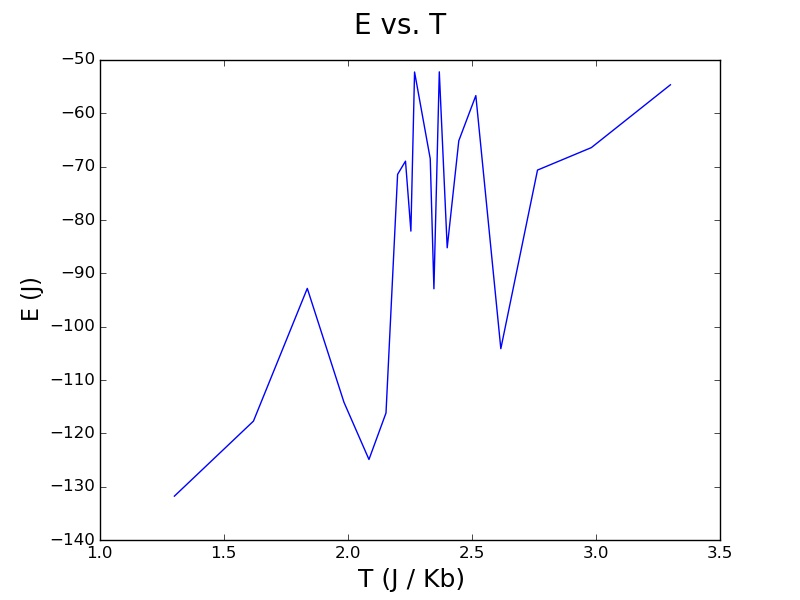
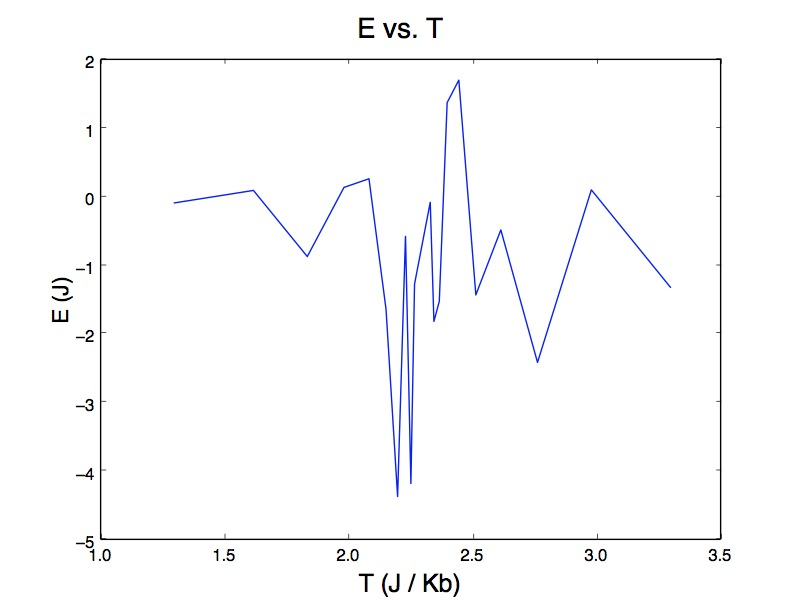
Added if statement for 1D case (pics)

diff --git a/1D/Simulation.py b/1D/Simulation.py
@@ -87,15 +87,15 @@ def get_energy_and_magnetization(ising_array):
 	if dim1: # 1D
 		energy_accumulator = 0
 		last_element = 0
-		
+
 		magnetization_accumulator = 0
-		
+
 		for current_element in ising_array:
 			energy_accumulator += -J * last_element * current_element - H * current_element
 			last_element = current_element
-			
+
 			magnetization_accumulator += current_element
-			
+
 		tot_magnetization = magnetization_accumulator / float(len(ising_array))
 		return energy_accumulator, tot_magnetization
 
@@ -105,10 +105,10 @@ def get_energy_and_magnetization(ising_array):
 		for i in range(0, N):
 			for j in range(0, M):
 				magnetization_accumulator += ising_array[i, j]
-				
+
 				current_element = ising_array[i, j]
 				energy_accumulator += -H * current_element
-				
+
 				neighbors = get_neighbors(i, j)
 				for index in neighbors:
 					index_x, index_y = index
@@ -129,7 +129,7 @@ def get_neighbors(i, j):
 			neighbor_set.add((i-1, j+1))
 	if i < N - 1:
 		neighbor_set.add((i+1, j))
-		if j > 0: 
+		if j > 0:
 			neighbor_set.add((i, j-1)) # m1
 			neighbor_set.add((i+1, j-1))
 		if j < M - 1:
@@ -183,18 +183,18 @@ for KbT in KbT_vals:
 	is_in_equilibrium = False
 	i = 0
 	k = 0 # how many summands we have in our average
-	while i < MCS: 
+	while i < MCS:
 		i += 1
-		
+
 		e_update, mag_update = update(ising_array, BETA) # if we return the delta(magnetization)
 		current_energy += e_update
 		current_magnetization += mag_update
 		current_abs_mag = abs(current_magnetization)
-		
+
 		if i % (MCS / num_snaps) == 0:
 			if KbT < 1.35:
 				low_T_snaps.append(np.copy(ising_array))
-				
+
 			elif KbT > 3.25:
 				hi_T_snaps.append(np.copy(ising_array))
 
@@ -203,17 +203,17 @@ for KbT in KbT_vals:
 			new_energy_avg = energy_avg + float(current_energy - energy_avg) / k
 			energy_var += (current_energy - energy_avg) * (current_energy - new_energy_avg)
 			energy_avg = new_energy_avg
-			
+
 			new_mag_avg = mag_avg + float(current_abs_mag - mag_avg) / k
 			mag_var += (current_abs_mag - mag_avg) * (current_abs_mag - new_mag_avg)
 			mag_avg = new_mag_avg
-			
+
 		elif i > MCS / 2:
 			k = 1
 			energy_avg = current_energy
 			mag_avg = current_abs_mag
 			is_in_equilibrium = True
-			
+
 	energy_var /= k - 1
 	mag_var /= k - 1
 
@@ -222,14 +222,14 @@ for KbT in KbT_vals:
 
 	# energy is in units of J
 
-#	temp = energy_var 
+#	temp = energy_var
 #	print temp
 ##	print np.var(energy_list)
 #	print '#######'
 	energy_list.append(energy_avg)
 	spec_heat = energy_var / (KbT * KbT) # get_spec_heat(energy_list) / (T*T) TODO: scale by Kb?
 	spec_heat_list.append(spec_heat)
-	
+
 	mag_list.append(mag_avg)
 	susceptibility = mag_var / KbT # TODO: scale by Kb?
 	susceptibility_list.append(susceptibility)
@@ -282,27 +282,29 @@ pickle_file = open('KbT_E_C_M_Chi.pkl', 'w')
 data = (KbT_vals, energy_list, spec_heat_list, mag_list, susceptibility_list)
 pickle.dump(data, pickle_file)
 
+if dim1:
 
-counter = 0
-for snap in low_T_snaps:
-	counter += 1
-	cold_fig = plt.figure()
-	plt.imshow(snap, vmin=-1, vmax=1, cmap=cm.Greys_r) #, vmin=-1, vmax=1, cmap=cm.Greys_r)
-	cold_fig.savefig('cold_snaps/snap_{}.png'.format(counter))
-	plt.close()
-	
-	
-print len(low_T_snaps)
+	print "No images for one dimensional case"
 
-counter = 0
-for snap in hi_T_snaps:
-	counter += 1
-	cold_fig = plt.figure()
-	plt.imshow(snap, vmin=-1, vmax=1, cmap=cm.Greys_r) #, vmin=-1, vmax=1, cmap=cm.Greys_r)
-	cold_fig.savefig('hot_snaps/snap_{}.png'.format(counter))
-	plt.close()
+else:
+
+	counter = 0
+	for snap in low_T_snaps:
+		counter += 1
+		cold_fig = plt.figure()
+		plt.imshow(snap, vmin=-1, vmax=1, cmap=cm.Greys_r) #, vmin=-1, vmax=1, cmap=cm.Greys_r)
+		cold_fig.savefig('cold_snaps/snap_{}.png'.format(counter))
+		plt.close()
+
+
+	print len(low_T_snaps)
+
+	counter = 0
+	for snap in hi_T_snaps:
+		counter += 1
+		cold_fig = plt.figure()
+		plt.imshow(snap, vmin=-1, vmax=1, cmap=cm.Greys_r) #, vmin=-1, vmax=1, cmap=cm.Greys_r)
+		cold_fig.savefig('hot_snaps/snap_{}.png'.format(counter))
+		plt.close()
 
 print len(hi_T_snaps)
-
-
-
